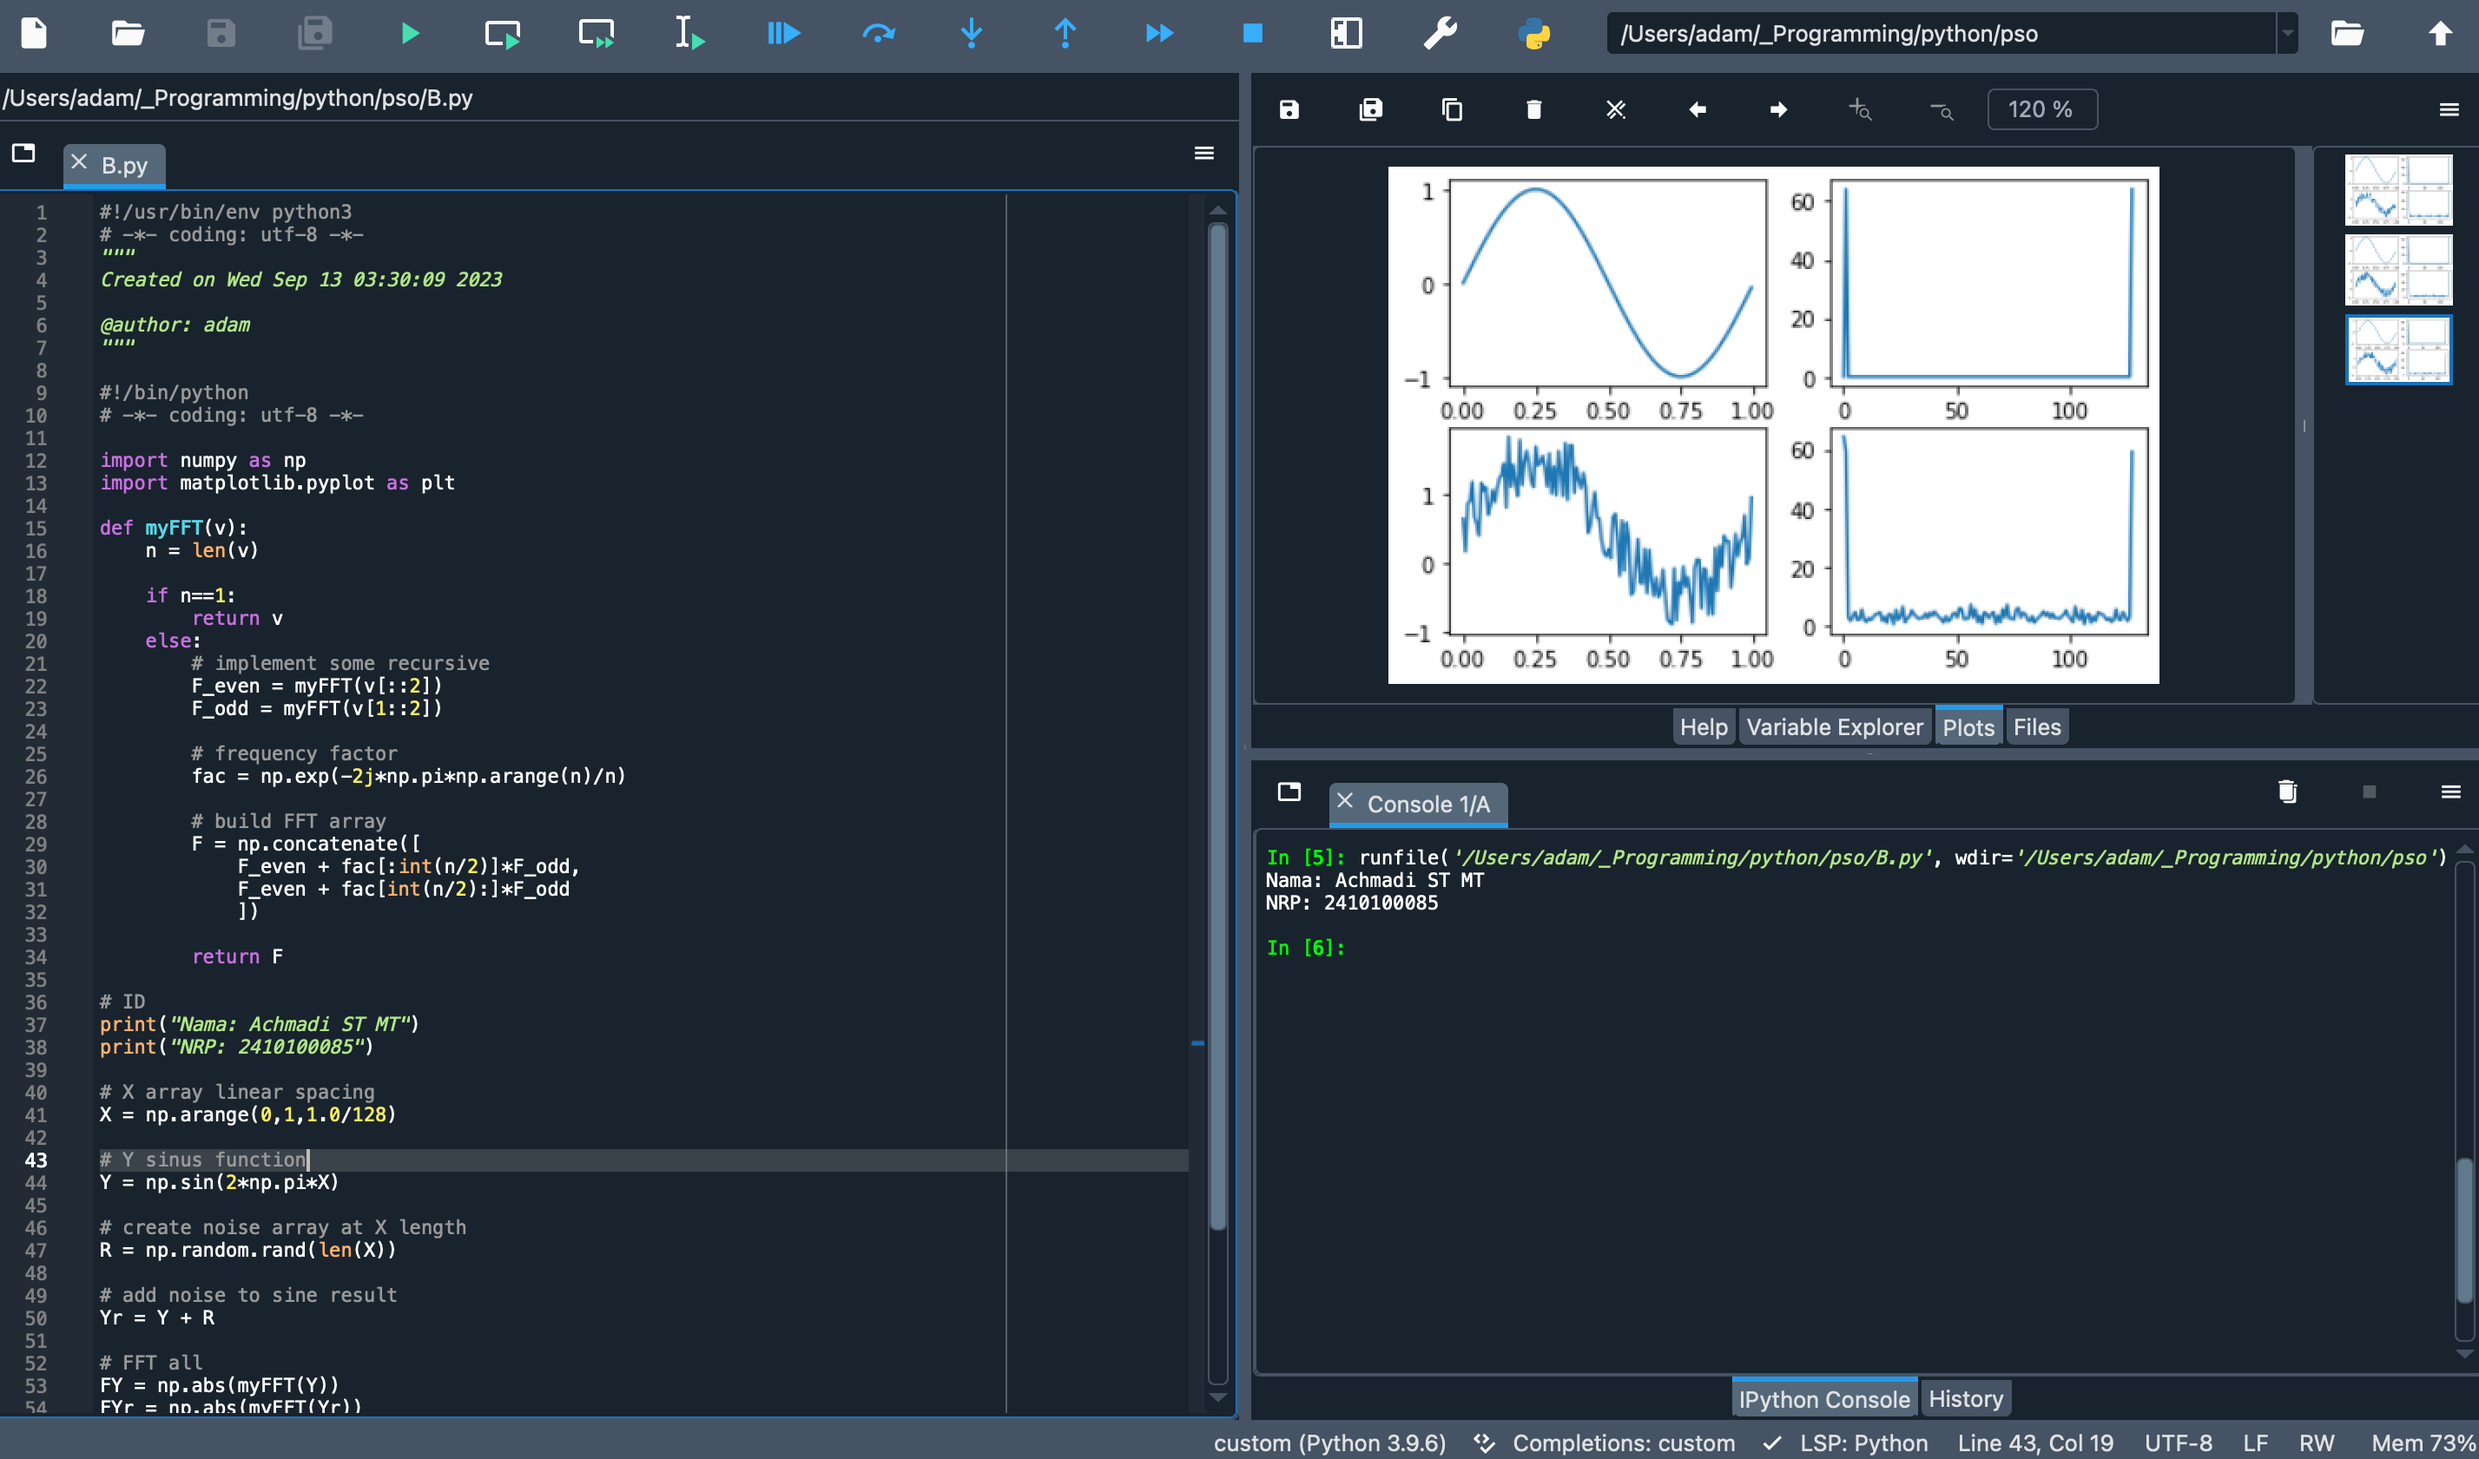
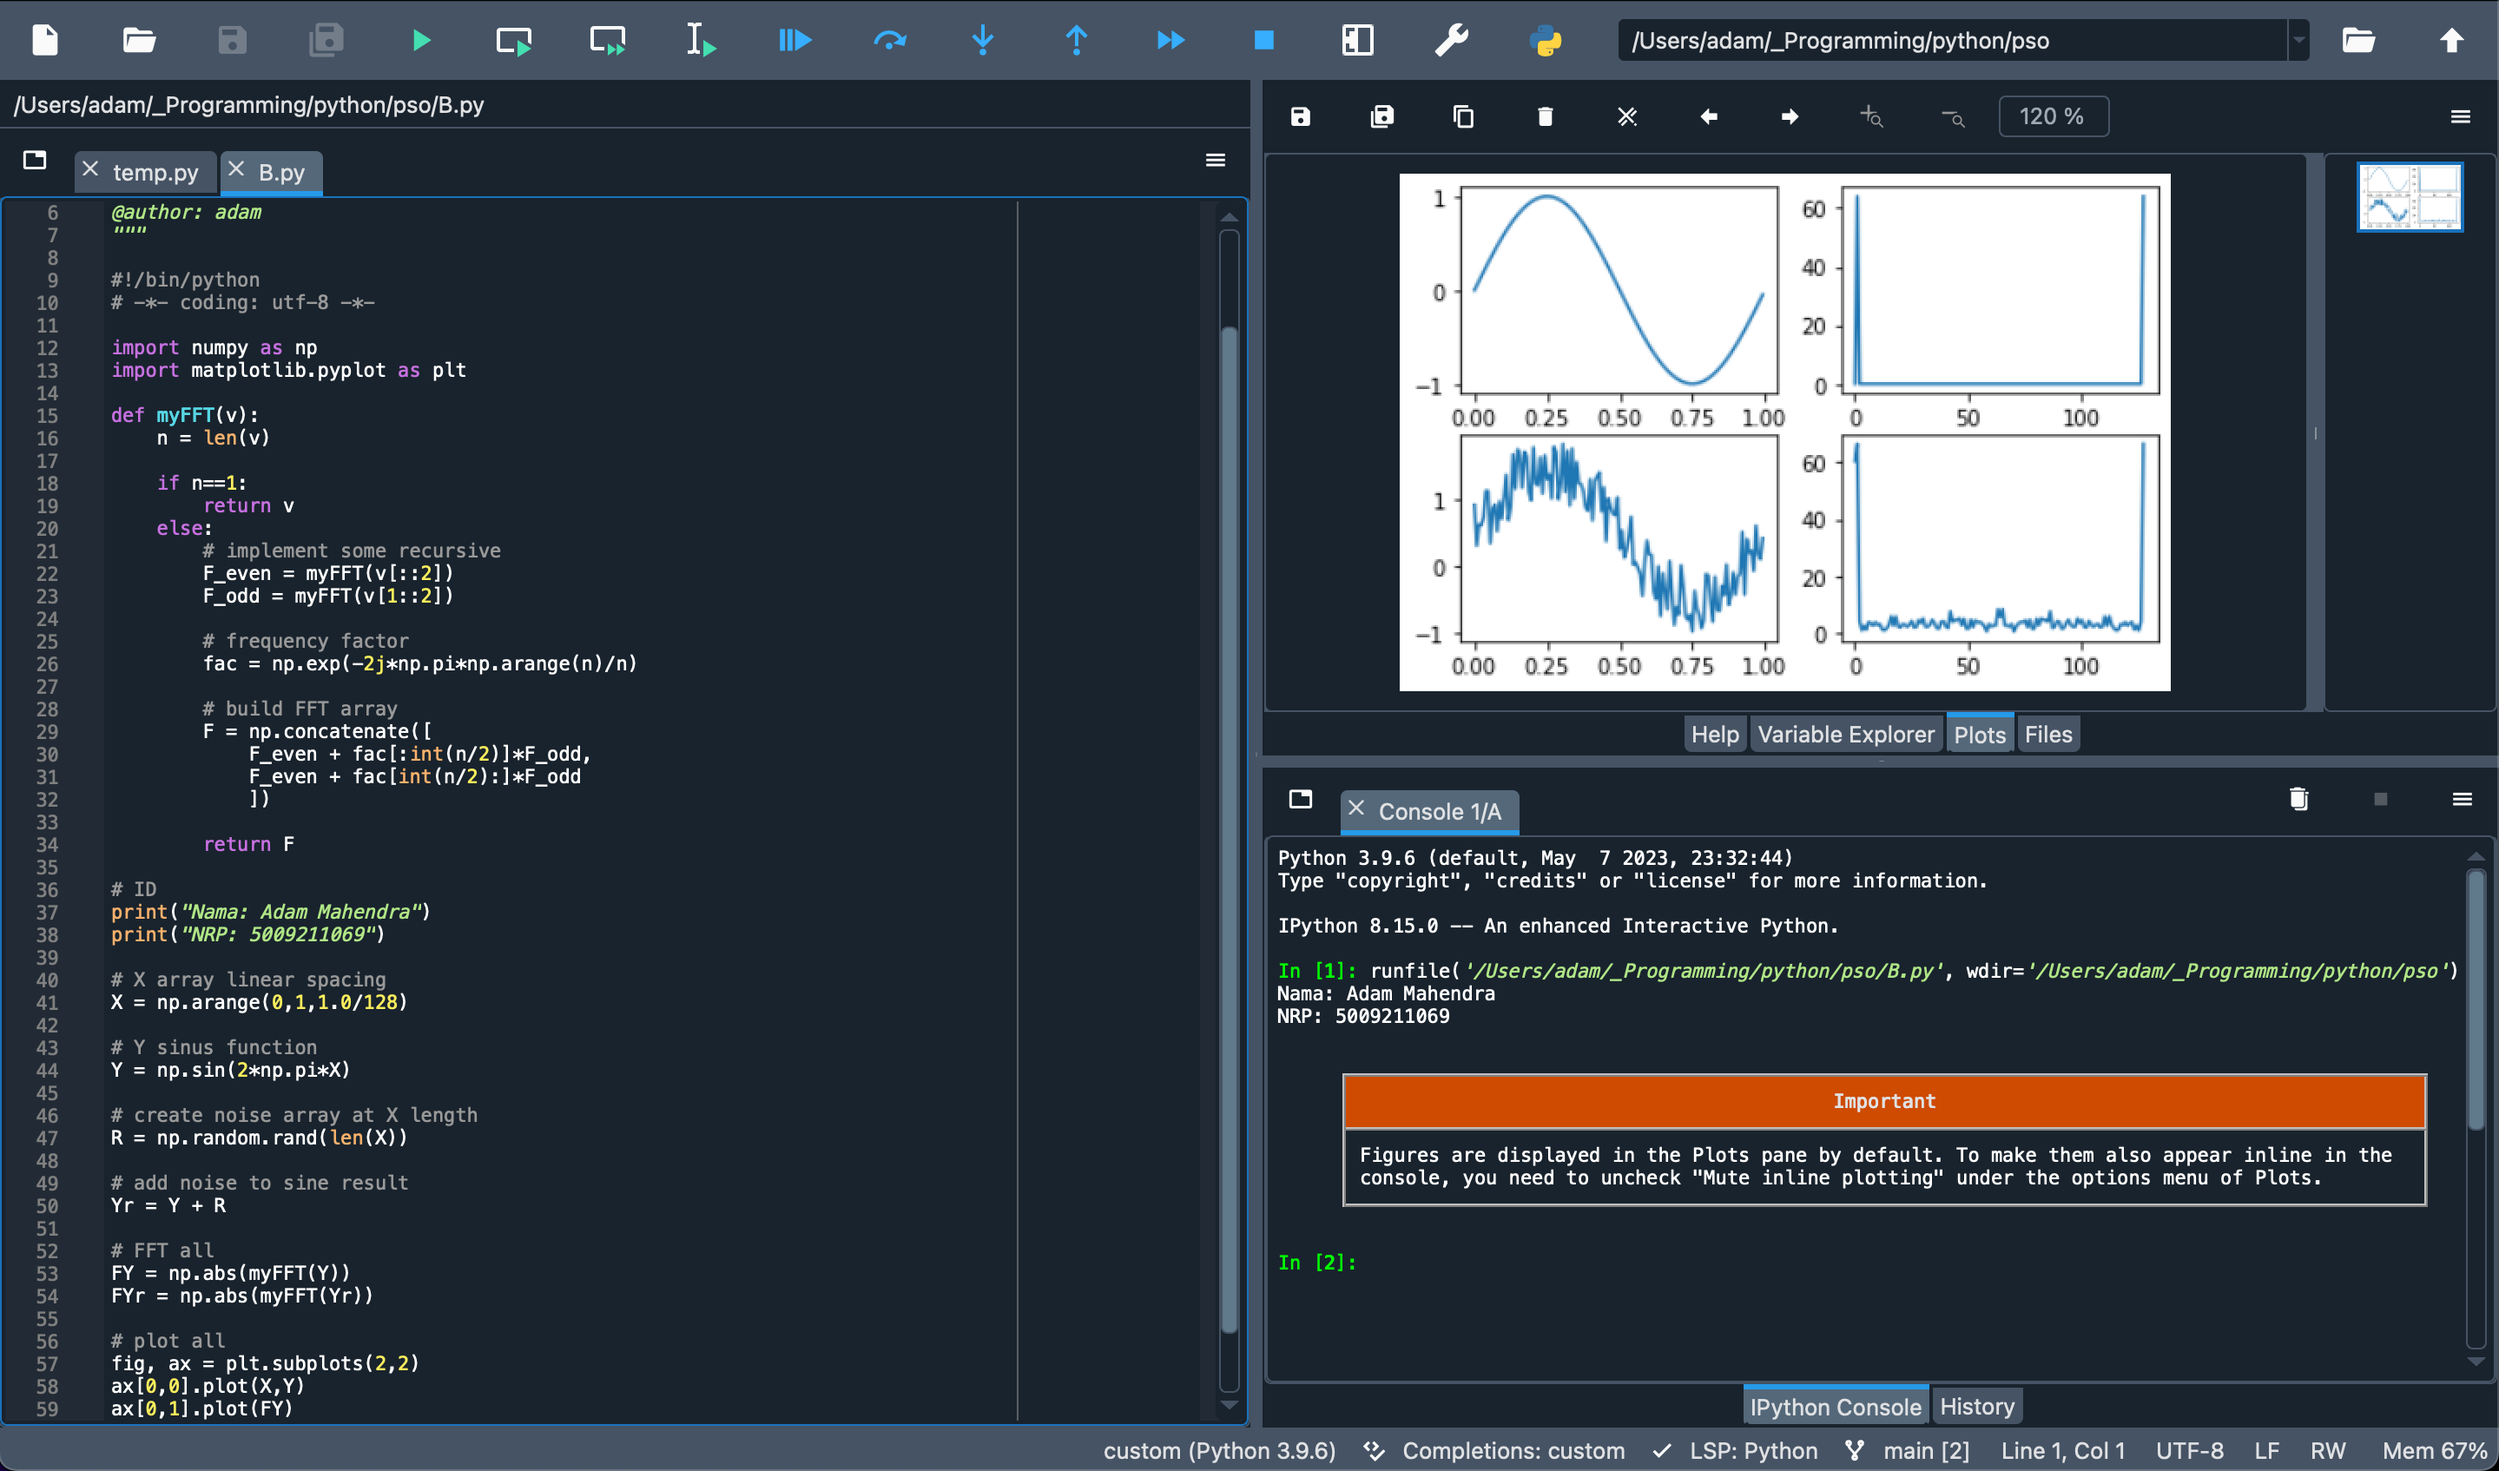
edited ID on task B

diff --git a/B.py b/B.py
@@ -34,8 +34,8 @@ def myFFT(v):
         return F
 
 # ID
-print("Nama: Achmadi ST MT")
-print("NRP: 2410100085")
+print("Nama: Adam Mahendra")
+print("NRP: 5009211069")
 
 # X array linear spacing
 X = np.arange(0,1,1.0/128)
